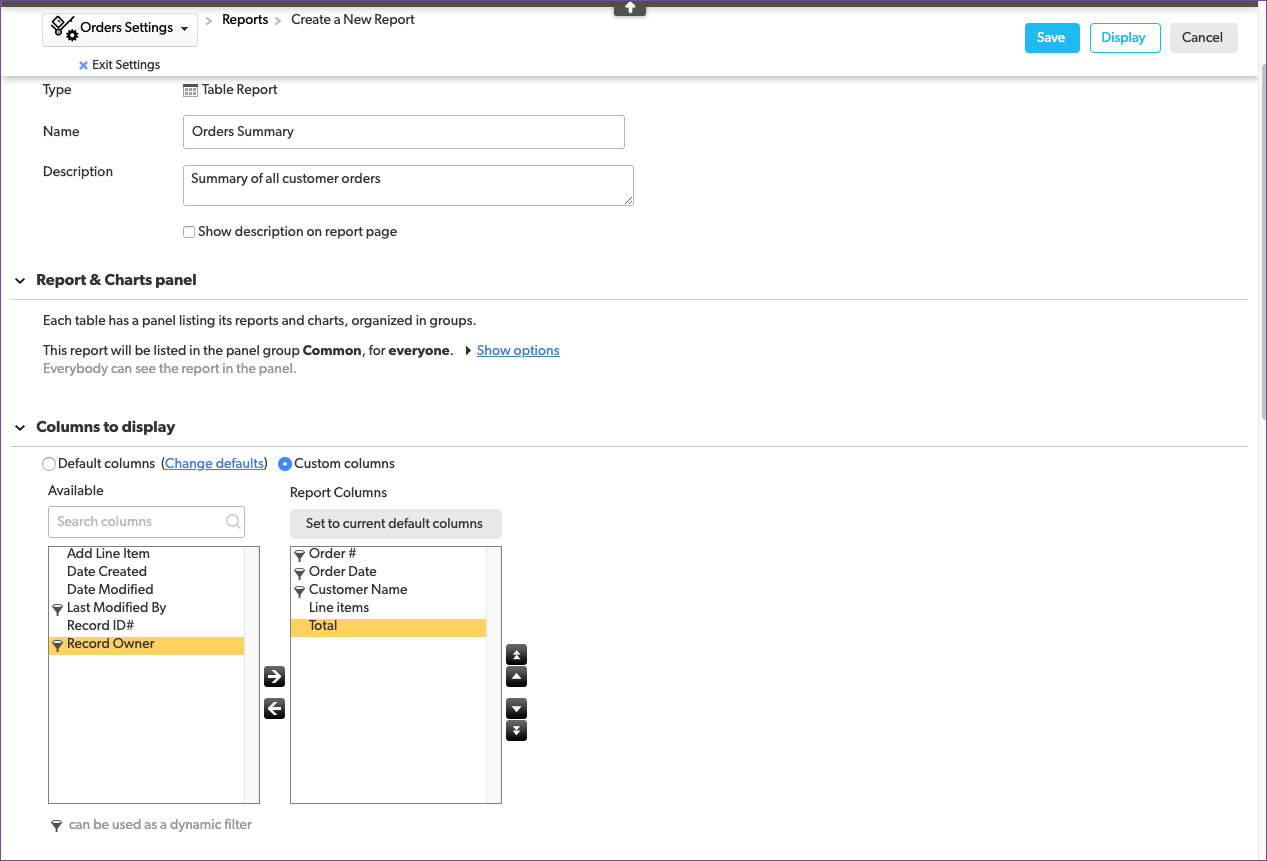
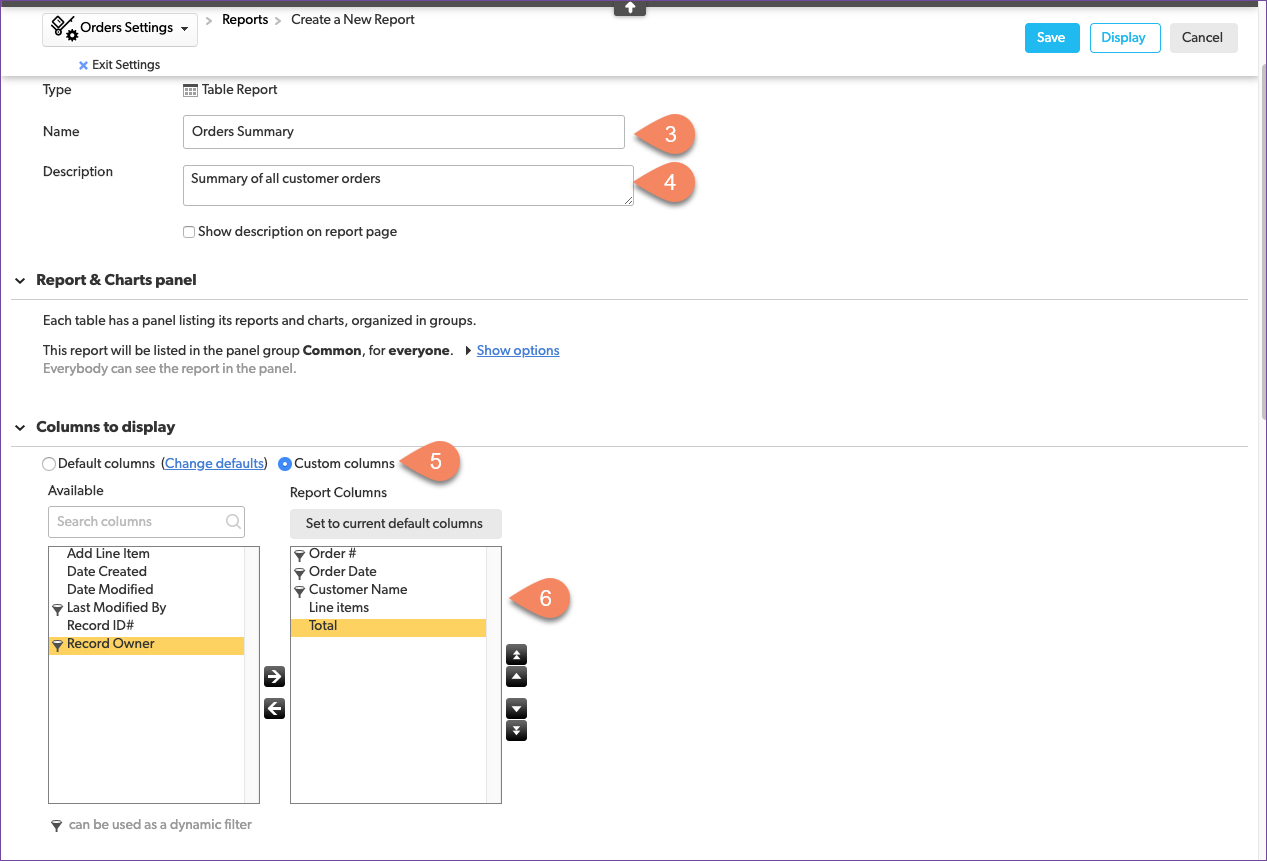
Reports images
added images and pointers to reports

Changed region(s): [[0.4925, 0.1208, 0.5541, 0.2416], [0.4002, 0.6643, 0.4617, 0.7247], [0.3078, 0.5134, 0.3694, 0.5738]]

diff --git a/report.md b/report.md
@@ -32,66 +32,79 @@ There are several ways to create a total field in Quick Base. You could define a
 
 Start by opening the relationship.
 
-![](assets/images/image-48.png)
-
 1. Click the **Orders** table in navigation 
-2. Click the Gear icon to open table settings
+2. Click the gear icon to open table settings
 3. Click **Table-to-table relationships** in the Table Structure group
 4. Click the **Orders -> Line Items** relationship
 
-Add a summary field.
+![](assets/images/image-46a.png)
+
+![](assets/images/image-46b.png)
+
+![](assets/images/image-48.png)
+
+Now add a summary field.
+
+1. Click **Add Summary Field** to open the summary field configuration.
+2. Select **A summary of a specific field**
+3. Select **Total** for the field
+4. Select **Line Total** from the field list
+5. Click the blue **Create** button
 
 ![](assets/images/image-49.png)
 
-Click **Add Summary Field** to open the summary field configuration.
-
 ![](assets/images/image-50.png)
 
-1. Select **A summary of a specific field**
-2. Select **Total** for the field
-3. Select **Line Total** from the field list
-4. Click the blue **Create** button
-
 Name the field.
-
-![](assets/images/image-51.png)
 
 1. Name the field _Total_
 2. Click the blue **OK** button
 
-The relationship between the Orders table and the Line Items table now looks like this:
+![](assets/images/image-51.png)
+
+Verify the relationship between the Orders table and the Line Items table.
+
+1. Click the blue **Done** button to add the field to the table configuration
+2. Click **Fields** in the **Table Structure** group
+3. Verify the Total field was added to the table
+4. Click **Exit Settings** 
 
 ![](assets/images/image-52.png)
 
-Click the blue **Done** button to add the field to the table configuration. Then click on **Fields** in the **Table Structure** group and verify that the Total field was added to the table.
+![](assets/images/image-52a.png)
 
-![](assets/images/image-53.png)
 
-Exit the Order table settings. 
 
 ### Create a custom table report
 
-You're getting the hang of this! Now create a new report and configure it to display the summary field. Start by clicking on the **Orders** table in navigation to open the **Orders Home** page. Expand the Reports & Charts list by clicking on **Reports & Charts**.
+You're getting the hang of this! Now create a new report. 
+
+1. Open the Orders Home page by clicking the **Orders** table in the table nav bar
+2. Expand the Reports & Charts panel by clicking  **Reports & Charts**
+3. Create a new report by clicking  **New** 
+
+![](assets/images/image-53a.png)
 
 ![](assets/images/image-54.png)
 
-Create a new report by clicking on the **New** button next to the reports & charts search box.
+Now configure the table report to display the summary field. 
+
+1. Select Table in the New report pop-up
+2. Click **Create**
+3. Name: _Orders Summary_
+4. Description: _Summary of customer orders_
+5. Select Custom columns
+6. Select Report Columns
+7. Select **Sort or group on other fields** in the Sorting & Grouping group
+8. Select **sort from hight to low by** to have the most recent orders on top
+9. Select **Order Date** from the list of fields
+10. Click the blue **Save** button
 
 ![](assets/images/image-55.png)
 
 ![](assets/images/image-56.png)
 
 ![](assets/images/image-57.png)
-
-1. Select Table in the New report pop-up
-2. Name: _Orders Summary_
-3. Description: _Summary of customer orders_
-4. Select Custom columns
-5. Select Report Columns
-6. Select **Sort or group on other fields** in the Sorting & Grouping group
-7. Select **sort from hight to low by**
-8. Select **Order Date** from the list of fields
-9. Click the blue **Save** button
 
 > **Congratulations!** You configured your first custom report in Quick Base!
 
@@ -101,23 +114,26 @@ Now, verify that the Orders Summary report is correct.
 
 ## Create a bar chart to view customer by spend
 
-Management wants to know which customers spend the most. We have fairly small customers, but they buy a lot. Let's use a bar chart to visualize the total that each customer has spent with us. This way, as customer orders are placed, management can see who's buying most and have a feel for how other customers compare. 
+Management wants to know which customers spend the most. We have fairly small customers, but they buy a lot. Let's use a bar chart to visualize the total that each customer has spent with us. This way, as customer orders are placed, management can see who's buying most and have a feel for how other customers compare.
+
+1. Click **New**
+2. Select **Chart** on the New report pop-up
+3. Click **Create**
+4. Name: _Customers by Spend_
+5. Description: _Quarterly spend by each customer_
+6. Select **bar** as the chart type in the Chart Details group
+7. Select **Customer Name** and **Equal Values** for the x-axis
+8. Select **Line Total** and **(summed)** for the y-axis
+9. Select **Order Date** and Group by: **Quarter** for the Series
+10. Click the blue **Save** button
+
+![](assets/images/image-59a.png)
 
 ![](assets/images/image-60.png)
 
 ![](assets/images/image-61.png)
 
 ![](assets/images/image-62.png)
-
-1. Click **New**
-2. Select **Chart** on the New report pop-up
-3. Name: _Customers by Spend_
-4. Description: _Quarterly spend by each customer_
-5. Select **bar** as the chart type in the Chart Details group
-6. Select **Customer Name** and **Equal Values** for the x-axis
-7. Select **Line Total** and **(summed)** for the y-axis
-8. Select **Order Date** and Group by: **Quarter** for the Series
-9. Click the blue **Save** button
   
 > It's **celebration** time! Congrats on creating your first data visualization!
 
@@ -129,24 +145,24 @@ Verify that the bar chart correctly displays how much each customer has spent th
 
 On to the next chart for management. This time we're looking to summarize the overall revenue generated by each product. Quick Base has a built-in report type for this called a "Summary Report." Let's give that a try and see if it works for management.
 
+1. Click **New**
+2. Click **Create**
+3. Select **Summary** from the New Report pop-up
+4. Name: _Products by Revenue_
+5. Description: _Products sorted by revenue_
+6. Set Summarize Data to: Summarize: **Line Total**, Summarize By: **Totals**, and Display As: **Normal Value**
+7. Set grouping to: Group By: **Product Name** and Combine: **Equal Values**
+8. Set sorting to; Sort by: **Line Total (tot)** and **from hight to low**
+9. Click the blue **Save** button
+
+![](assets/images/image-59a.png)
+
 ![](assets/images/image-64.png)
 
 ![](assets/images/image-65.png)
 
-1. Click **New**
-2. Select **Summary** from the New Report pop-up
-3. Name: _Products by Revenue_
-4. Description: _Products sorted by revenue_
-5. Summarize: **Line Total**
-6. Summarize By: **Totals**
-7. Display As: **Normal Value**
-8. Group By: **Product Name**
-9. Combine: **Equal Values**
-10. Sort by: **Line Total (tot)**
-11. Select **from hight to low**
-12. Click the blue **Save** button
 
-Yup, management is going to be pleased. That's exactly what they asked for. But, before we put it in the dashboard, it's a good practice to verify that the summary chart correctly displays how much revenue each product has brought in.
+Yes, management is going to be pleased. That's exactly what they asked for. But, before we put it in the dashboard, it's a good practice to verify that the summary chart correctly displays how much revenue each product has brought in.
 
 ![](assets/images/image-66.png)
 
